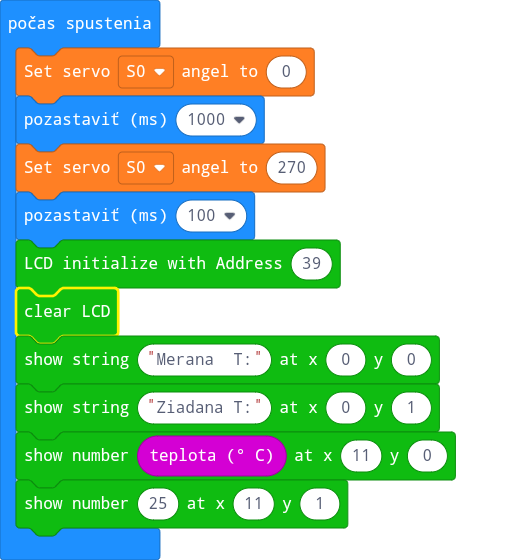
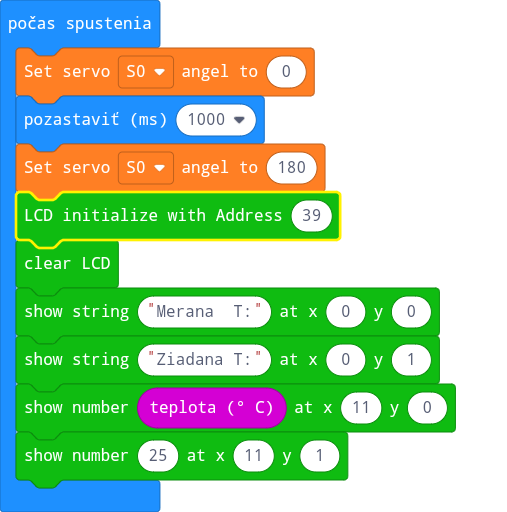
Update main.blocks, main.ts

Changed region(s): [[0.0, 0.0312, 0.9172, 0.9688]]

diff --git a/main.ts b/main.ts
@@ -1,7 +1,6 @@
 wuKong.setServoAngel(wuKong.ServoList.S0, 0)
 basic.pause(1000)
-wuKong.setServoAngel(wuKong.ServoList.S0, 270)
-basic.pause(100)
+wuKong.setServoAngel(wuKong.ServoList.S0, 180)
 I2C_LCD1602.LcdInit(39)
 I2C_LCD1602.clear()
 I2C_LCD1602.ShowString("Merana  T:", 0, 0)
